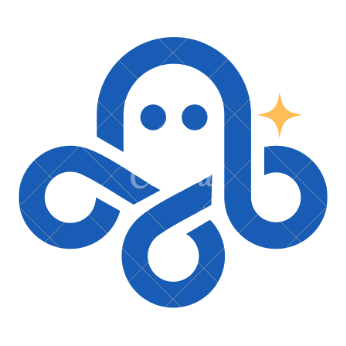
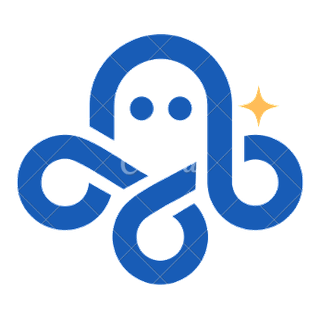
chore: vistoria 04/09 - melhorias de SEO, desempenho e design
SEO
- vercel.json com rewrite de SPA: /servicos, /sobre, /contato, /blog e
  /politicas respondiam 404 no ar (todas as URLs do sitemap estavam quebradas)
- Seo.jsx passa a definir title, canonical, og:url/title/description,
  twitter:title/description e robots por rota. Antes as 6 paginas
  compartilhavam o mesmo title fixo "IBA | Estudio de desenvolvimento"
- rota 404 (NaoEncontrada.jsx) com noindex, para o rewrite de SPA nao
  transformar qualquer URL em pagina 200 vazia
- sitemap.xml: inclui /blog, lastmod atualizado
- robots.txt: remove "Disallow: /politicas", que contradizia o sitemap
- index.html: twitter cards, og:image dimensoes/alt, JSON-LD com logo,
  contactPoint e catalogo dos 3 servicos

Desempenho
- imagens redimensionadas para o tamanho de exibicao (2x):
  foto-isis-round 327KB->50KB, mascote-no 31KB->16KB, logo 20KB->3KB
- remove public/img/foto-isis.png (401KB), sem nenhuma referencia no codigo
- loading="lazy" e decoding="async" nas imagens abaixo da dobra
- Archivo 600 (nao usado) trocado por 400, que faltava em Servicos.jsx:109
- dist: 1,2MB -> 488KB

Design
- gray-500 #718096 -> #667085: o antigo dava 4.0:1 no branco e reprovava
  no WCAG AA em texto pequeno (precos, notas de rodape, legendas)
- eyebrow "Missao" de text-white/70 para /80 sobre o azul (4.0:1 -> 4.8:1)
- Reveal: remove prop "as" morta que vazava as="div" no DOM

diff --git a/index.html b/index.html
@@ -15,10 +15,17 @@
     <meta property="og:title" content="IBA Estúdio | Sites, Automação com IA e Sistemas para pequenos negócios" />
     <meta property="og:description" content="Sites, automação com IA e sistemas sob medida para pequenos negócios. Atendimento direto, processo claro e prazos cumpridos." />
     <meta property="og:image" content="https://www.ibaestudio.com/img/mascote-no.png" />
+    <meta property="og:image:width" content="320" />
+    <meta property="og:image:height" content="320" />
+    <meta property="og:image:alt" content="Nó, o mascote polvo da IBA Estúdio" />
     <meta property="og:site_name" content="IBA Estúdio" />
+    <meta name="twitter:card" content="summary" />
+    <meta name="twitter:title" content="IBA Estúdio | Sites, Automação com IA e Sistemas para pequenos negócios" />
+    <meta name="twitter:description" content="Sites, automação com IA e sistemas sob medida para pequenos negócios. Atendimento direto, processo claro e prazos cumpridos." />
+    <meta name="twitter:image" content="https://www.ibaestudio.com/img/mascote-no.png" />
     <link rel="preconnect" href="https://fonts.googleapis.com" />
     <link rel="preconnect" href="https://fonts.gstatic.com" crossorigin />
-    <link href="https://fonts.googleapis.com/css2?family=Archivo:wght@600;700;800&family=Inter:wght@400;500;600;700&display=swap" rel="stylesheet" />
+    <link href="https://fonts.googleapis.com/css2?family=Archivo:wght@400;700;800&family=Inter:wght@400;500;600;700&display=swap" rel="stylesheet" />
     <script type="application/ld+json">
       {
         "@context": "https://schema.org",
@@ -30,7 +37,48 @@
         "description": "Sites, automação com IA e sistemas sob medida para pequenos negócios.",
         "priceRange": "$$",
         "areaServed": "BR",
-        "founder": { "@type": "Person", "name": "Isis Alencastro" }
+        "inLanguage": "pt-BR",
+        "logo": "https://www.ibaestudio.com/img/logo-oficial-iba.png",
+        "image": "https://www.ibaestudio.com/img/logo-oficial-iba.png",
+        "foundingDate": "2026",
+        "founder": { "@type": "Person", "name": "Isis Alencastro" },
+        "contactPoint": {
+          "@type": "ContactPoint",
+          "contactType": "customer service",
+          "telephone": "+555193307386",
+          "email": "contato@ibaestudio.com",
+          "availableLanguage": "Portuguese"
+        },
+        "hasOfferCatalog": {
+          "@type": "OfferCatalog",
+          "name": "Serviços da IBA Estúdio",
+          "itemListElement": [
+            {
+              "@type": "Offer",
+              "itemOffered": {
+                "@type": "Service",
+                "name": "Sites",
+                "description": "Site institucional e páginas de venda que transformam visita em contato no WhatsApp."
+              }
+            },
+            {
+              "@type": "Offer",
+              "itemOffered": {
+                "@type": "Service",
+                "name": "Automação com IA",
+                "description": "Fluxos que respondem cliente no WhatsApp e eliminam tarefa repetitiva."
+              }
+            },
+            {
+              "@type": "Offer",
+              "itemOffered": {
+                "@type": "Service",
+                "name": "Sistemas sob medida",
+                "description": "Painéis e ferramentas web que organizam a operação: cadastros, agenda e pedidos."
+              }
+            }
+          ]
+        }
       }
     </script>
   </head>

diff --git a/src/pages/Sobre.jsx b/src/pages/Sobre.jsx
@@ -22,6 +22,7 @@ export default function Sobre() {
   return (
     <Page>
       <Seo
+        title="Sobre a IBA Estúdio | Tecnologia para pequenos negócios"
         description="Conheça a IBA Estúdio: estúdio de tecnologia fundado em 2026 por Isis Alencastro, criado para levar sites, automação e sistemas a pequenos negócios."
       />
 
@@ -73,7 +74,7 @@ export default function Sobre() {
           <div className="grid lg:grid-cols-[0.45fr_0.55fr] gap-10 items-center">
             <Reveal className="flex justify-center">
               <div className="w-52 h-52 bg-white border border-gray-200 rounded-2xl shadow flex items-center justify-center">
-                <img src="/img/mascote-no.png" alt="Mascote Nó da IBA" width="150" height="150" className="w-40 h-40 object-contain" />
+                <img src="/img/mascote-no.png" alt="Nó, o mascote polvo da IBA" width="150" height="150" loading="lazy" decoding="async" className="w-40 h-40 object-contain" />
               </div>
             </Reveal>
 
@@ -97,7 +98,7 @@ export default function Sobre() {
       <section className="py-[88px] bg-blue text-white">
         <div className="container-site max-w-[820px]">
           <Reveal>
-            <p className="eyebrow text-white/70">Missão</p>
+            <p className="eyebrow text-white/80">Missão</p>
             <h2 className="text-white text-[clamp(1.8rem,3.4vw,2.6rem)] leading-tight">
               Transformar a presença digital de pequenos negócios com automação inteligente e tecnologia acessível.
             </h2>
@@ -136,6 +137,8 @@ export default function Sobre() {
                 alt="Isis Alencastro, fundadora da IBA Estúdio"
                 width="160"
                 height="160"
+                loading="lazy"
+                decoding="async"
                 className="w-40 h-40 rounded-full object-cover border border-gray-200 shadow shrink-0"
               />
               <div className="pt-1">

diff --git a/src/components/Seo.jsx b/src/components/Seo.jsx
@@ -1,18 +1,34 @@
 import { useEffect } from 'react'
+import { useLocation } from 'react-router-dom'
 
-export default function Seo({ description }) {
+const ORIGIN = 'https://www.ibaestudio.com'
+
+function upsert(tag, key, keyValue, contentAttr, content) {
+  let el = document.head.querySelector(`${tag}[${key}="${keyValue}"]`)
+  if (!el) {
+    el = document.createElement(tag)
+    el.setAttribute(key, keyValue)
+    document.head.appendChild(el)
+  }
+  el.setAttribute(contentAttr, content)
+}
+
+export default function Seo({ title, description, noindex = false }) {
+  const { pathname } = useLocation()
+
   useEffect(() => {
-    document.title = 'IBA | Estúdio de desenvolvimento'
-    if (description) {
-      let meta = document.querySelector('meta[name="description"]')
-      if (!meta) {
-        meta = document.createElement('meta')
-        meta.setAttribute('name', 'description')
-        document.head.appendChild(meta)
-      }
-      meta.setAttribute('content', description)
-    }
-  }, [description])
+    const url = ORIGIN + pathname
+    document.title = title
+    // sempre escrito (nao so no 404) para a tag nao ficar presa ao trocar de rota na SPA
+    upsert('meta', 'name', 'robots', 'content', noindex ? 'noindex, follow' : 'index, follow')
+    upsert('meta', 'name', 'description', 'content', description)
+    upsert('link', 'rel', 'canonical', 'href', url)
+    upsert('meta', 'property', 'og:url', 'content', url)
+    upsert('meta', 'property', 'og:title', 'content', title)
+    upsert('meta', 'property', 'og:description', 'content', description)
+    upsert('meta', 'name', 'twitter:title', 'content', title)
+    upsert('meta', 'name', 'twitter:description', 'content', description)
+  }, [title, description, noindex, pathname])
 
   return null
 }

diff --git a/src/pages/NaoEncontrada.jsx b/src/pages/NaoEncontrada.jsx
@@ -1,0 +1,35 @@
+import { Link } from 'react-router-dom'
+import Page from '../components/Page'
+import Reveal from '../components/Reveal'
+import Seo from '../components/Seo'
+import { waLink, WA_MESSAGES } from '../lib/site'
+
+export default function NaoEncontrada() {
+  return (
+    <Page>
+      <Seo
+        title="Página não encontrada | IBA Estúdio"
+        description="Esta página não existe ou mudou de endereço. Veja os serviços da IBA Estúdio ou fale direto com a gente."
+        noindex
+      />
+
+      <section className="bg-gradient-to-b from-blue-soft to-white pt-[140px] pb-[120px]">
+        <div className="container-site max-w-[640px]">
+          <Reveal>
+            <p className="eyebrow">Erro 404</p>
+          </Reveal>
+          <Reveal delay={0.08} blur>
+            <h1 className="text-[clamp(1.9rem,4vw,2.7rem)] max-w-[22ch] mb-4">Esta página não existe</h1>
+          </Reveal>
+          <Reveal delay={0.16}>
+            <p className="lede mb-8">O endereço pode ter mudado ou o link veio errado. Comece pelo início ou fale com a gente que a gente te aponta o caminho.</p>
+            <div className="flex flex-wrap gap-3">
+              <Link to="/" className="btn btn-primary">Voltar para o início</Link>
+              <a className="btn btn-secondary" href={waLink(WA_MESSAGES.geral)} target="_blank" rel="noopener noreferrer">Falar no WhatsApp</a>
+            </div>
+          </Reveal>
+        </div>
+      </section>
+    </Page>
+  )
+}

diff --git a/src/components/Footer.jsx b/src/components/Footer.jsx
@@ -8,7 +8,7 @@ export default function Footer() {
       <Reveal className="container-site grid grid-cols-2 lg:grid-cols-[2fr_1fr_1fr_1fr] gap-7 lg:gap-10 pb-10">
         <div className="col-span-2 lg:col-span-1">
           <Link to="/" aria-label="IBA Estúdio, página inicial" className="flex items-center gap-2.5 text-ink hover:no-underline">
-            <img src="/img/logo-oficial-iba.png" alt="" width="40" height="40" className="w-10 h-10 rounded-lg object-cover shrink-0" />
+            <img src="/img/logo-oficial-iba.png" alt="" width="40" height="40" loading="lazy" decoding="async" className="w-10 h-10 rounded-lg object-cover shrink-0" />
             <span className="font-display font-extrabold text-lg leading-none">
               <span className="text-blue">Estúdio</span>
             </span>

diff --git a/src/components/Reveal.jsx b/src/components/Reveal.jsx
@@ -10,13 +10,12 @@ export default function Reveal({
   scale = 1,
   blur = false,
   once = true,
-  className = '',
-  as: Tag = 'div'
+  className = ''
 }) {
   const reduce = useReducedMotion()
 
   if (reduce) {
-    return <Tag className={className}>{children}</Tag>
+    return <div className={className}>{children}</div>
   }
 
   return (
@@ -26,7 +25,6 @@ export default function Reveal({
       whileInView={{ opacity: 1, y: 0, x: 0, scale: 1, filter: 'blur(0px)' }}
       viewport={{ once, margin: '0px 0px -60px 0px' }}
       transition={{ duration: 0.7, delay, ease: EASE }}
-      as={Tag}
     >
       {children}
     </motion.div>

diff --git a/src/App.jsx b/src/App.jsx
@@ -10,6 +10,7 @@ import Sobre from './pages/Sobre'
 import Contato from './pages/Contato'
 import Politicas from './pages/Politicas'
 import Blog from './pages/Blog'
+import NaoEncontrada from './pages/NaoEncontrada'
 
 function ScrollToTop() {
   const { pathname, hash } = useLocation()
@@ -34,6 +35,7 @@ function AnimatedRoutes() {
         <Route path="/contato" element={<Contato />} />
         <Route path="/politicas" element={<Politicas />} />
         <Route path="/blog" element={<Blog />} />
+        <Route path="*" element={<NaoEncontrada />} />
       </Routes>
     </AnimatePresence>
   )

diff --git a/src/pages/Home.jsx b/src/pages/Home.jsx
@@ -91,6 +91,7 @@ export default function Home() {
   return (
     <Page>
       <Seo
+        title="IBA Estúdio | Sites, Automação com IA e Sistemas para pequenos negócios"
         description="Sites, automação com IA e sistemas sob medida para pequenos negócios. Atendimento direto, processo claro e prazos cumpridos."
       />
 

diff --git a/src/pages/Servicos.jsx b/src/pages/Servicos.jsx
@@ -71,6 +71,7 @@ export default function Servicos() {
   return (
     <Page>
       <Seo
+        title="Serviços: sites, automação com IA e sistemas | IBA Estúdio"
         description="Sites, automação com IA e sistemas sob medida para pequenos negócios. Veja o que a IBA faz, para quem é e quanto custa."
       />
 

diff --git a/src/pages/Politicas.jsx b/src/pages/Politicas.jsx
@@ -34,6 +34,7 @@ export default function Politicas() {
   return (
     <Page>
       <Seo
+        title="Políticas, privacidade e termos de uso | IBA Estúdio"
         description="Postura, compromissos e respostas para dúvidas frequentes da IBA Estúdio, além da política de privacidade e termos de uso."
       />
 

diff --git a/tailwind.config.js b/tailwind.config.js
@@ -22,7 +22,8 @@ export default {
         gray: {
           100: '#F7F9FC',
           200: '#EEF2F8',
-          500: '#718096',
+          // 500 escurecido de #718096 (4.0:1) para #667085 (5.0:1): WCAG AA em texto pequeno
+          500: '#667085',
           600: '#4A5568'
         }
       },

diff --git a/src/pages/Contato.jsx b/src/pages/Contato.jsx
@@ -53,6 +53,7 @@ export default function Contato() {
   return (
     <Page>
       <Seo
+        title="Contato | IBA Estúdio: orçamento e auditoria gratuita"
         description="Fale com a IBA Estúdio pelo WhatsApp ou pelo formulário. Respondemos em até 1 dia útil."
       />
 
